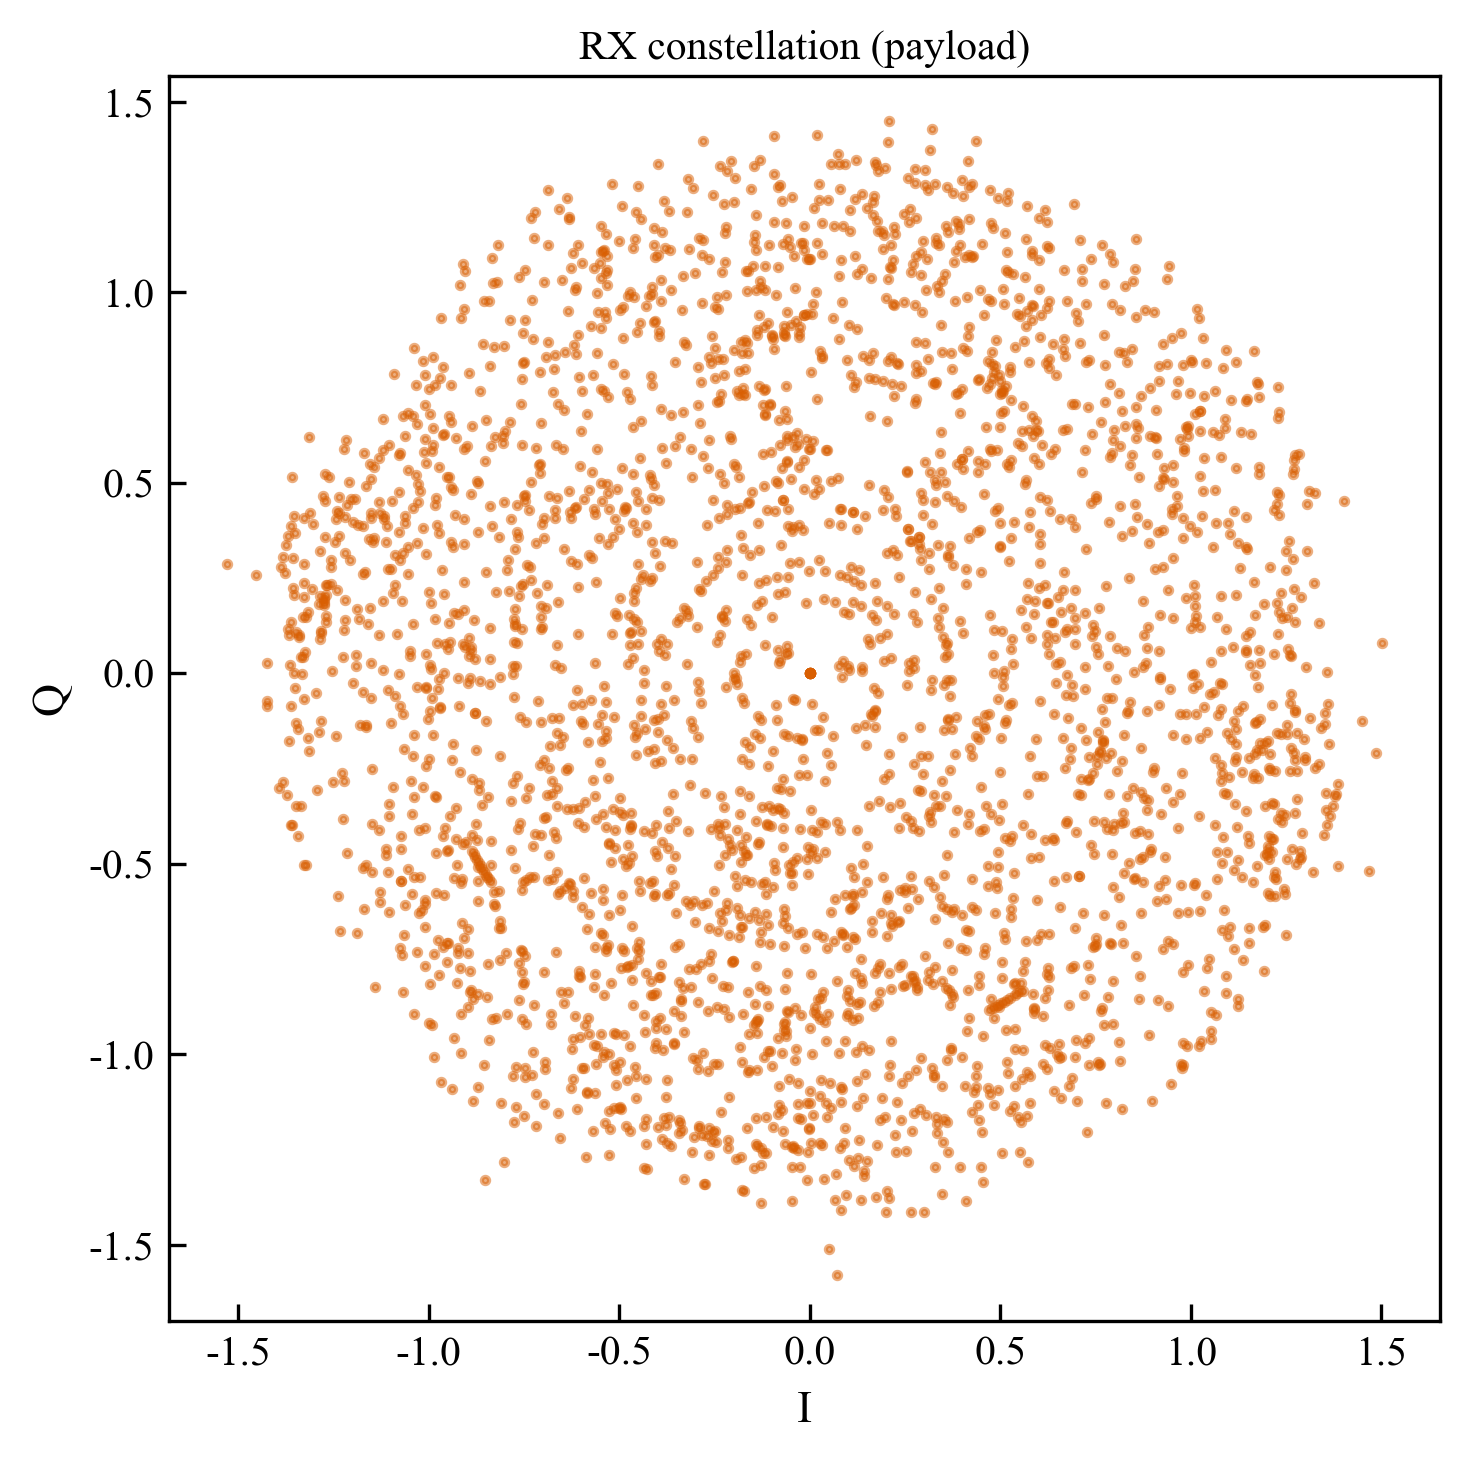
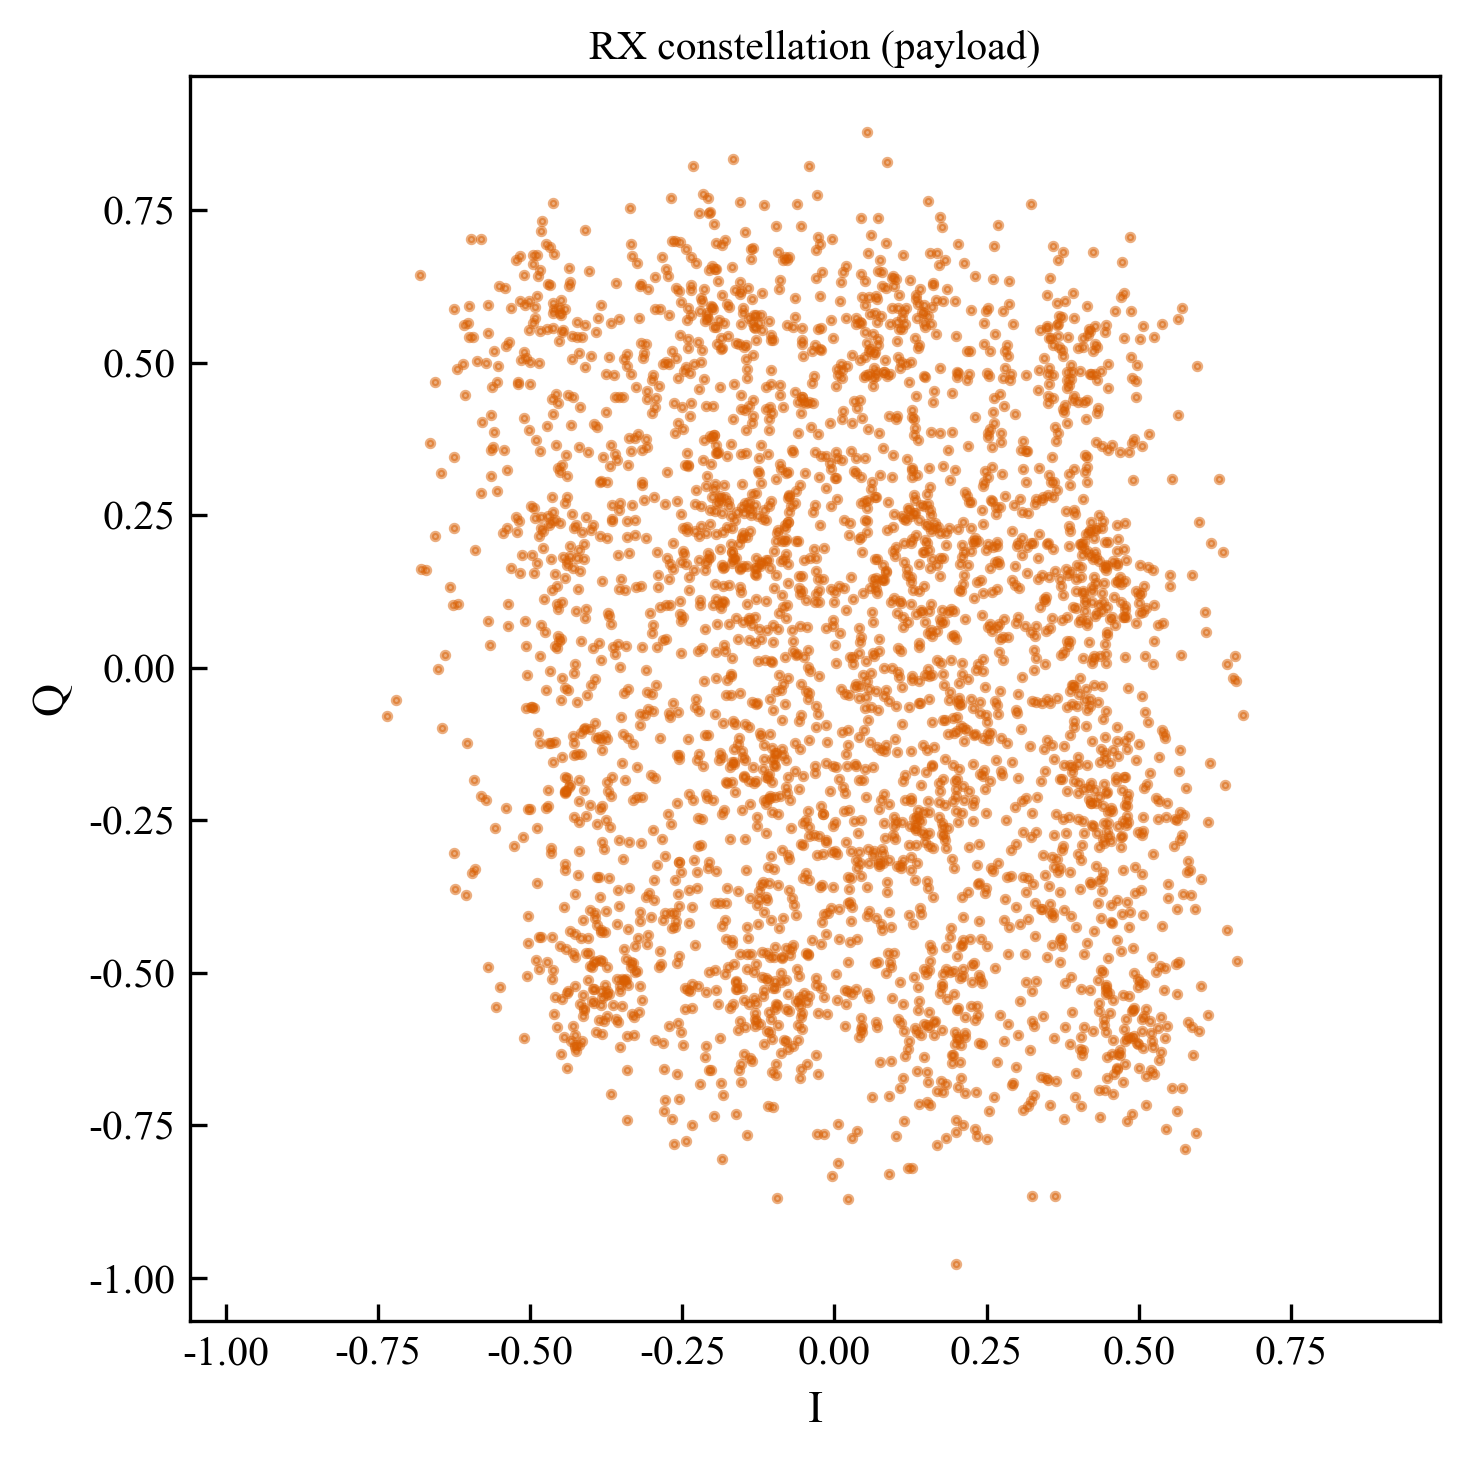
解决IQ补偿的问题和结果对比问题

diff --git a/thz_sim_ui/services/backend.py b/thz_sim_ui/services/backend.py
@@ -18,6 +18,10 @@ from PySide6.QtCore import QObject, Signal, QThread
 from thz_sim_ui.data.mock_data import RECENT_TASKS, TaskItem
 from simulation.SimulationManager import SimulationManager
 from params.PHYParams import PHYParams
+from thz_sim_ui.services.result_utils import (
+    build_simulation_result_path,
+    select_rx_constellation_data,
+)
 
 
 class SimulationThread(QThread):
@@ -816,8 +820,17 @@ class BackendService(QObject):
             sm.set_control_params(mapped_params)
             tags = self._format_task_tags(mapped_params)
             start_time = time.time()
+            task_name = f'THz-Sim-{len(RECENT_TASKS) + 1}'
+            result_path = None
+            if project_folder:
+                result_path = build_simulation_result_path(
+                    project_folder,
+                    task_name,
+                    time.time_ns(),
+                )
+                result_path.mkdir(parents=True, exist_ok=True)
             task = TaskItem(
-                name=f'THz-Sim-{len(RECENT_TASKS) + 1}',
+                name=task_name,
                 project=self._state.project_name,
                 mode='蒙特卡洛',
                 tags=tags,
@@ -828,7 +841,7 @@ class BackendService(QObject):
                 status='运行中',
                 is_current=True,
                 start_time=start_time,
-                result_path=self.current_project_folder,
+                result_path=str(result_path) if result_path else None,
             )
             RECENT_TASKS.append(task)
             self.tasks_updated.emit(RECENT_TASKS.copy())
@@ -1230,7 +1243,9 @@ class BackendService(QObject):
             fig.tight_layout(); fig.savefig(output_dir / "rx_mf_spectrum.png", dpi=300, bbox_inches='tight'); plt.close(fig)
 
         # ---- equalized constellation ----
-        eq_dict = result.get('rx_equalized') or {}
+        # 判决导向 IQ 补偿位于均衡之后。开启补偿时应展示补偿后的
+        # 星座；未开启补偿（值为 None）时再回退到原始均衡结果。
+        eq_dict = select_rx_constellation_data(result)
         eq_sig = np.asarray(eq_dict.get('signal_stream', []))
         if len(eq_sig) > 0:
             fig, ax = plt.subplots(figsize=(5, 5))

diff --git a/simulation/test_iq_constellation_result_flow.py b/simulation/test_iq_constellation_result_flow.py
@@ -1,0 +1,56 @@
+import numpy as np
+
+from simulation.result_utils import collect_receiver_intermediates
+from thz_sim_ui.services.result_utils import (
+    build_simulation_result_path,
+    select_rx_constellation_data,
+)
+
+
+def test_frontend_prefers_iq_compensated_constellation():
+    equalized = {"signal_stream": np.array([1 + 1j])}
+    compensated = {"signal_stream": np.array([2 + 2j])}
+
+    selected = select_rx_constellation_data({
+        "rx_equalized": equalized,
+        "rx_iq_compensated": compensated,
+    })
+
+    assert selected is compensated
+
+
+def test_frontend_falls_back_to_equalized_constellation_without_iq_compensation():
+    equalized = {"signal_stream": np.array([1 + 1j])}
+
+    selected = select_rx_constellation_data({
+        "rx_equalized": equalized,
+        "rx_iq_compensated": None,
+    })
+
+    assert selected is equalized
+
+
+def test_simulation_result_exports_iq_compensated_signal():
+    equalized = {"signal_stream": np.array([1 + 1j])}
+    compensated = {"signal_stream": np.array([2 + 2j])}
+
+    class FakeReceiver:
+        rx_matched = None
+        rx_downsampled = None
+        rx_equalized = equalized
+        rx_iq_compensated = compensated
+
+    result = collect_receiver_intermediates(FakeReceiver())
+
+    assert result["rx_equalized"] is equalized
+    assert result["rx_iq_compensated"] is compensated
+
+
+def test_each_simulation_gets_an_independent_project_result_path(tmp_path):
+    first = build_simulation_result_path(tmp_path, "THz-Sim-1", 1001)
+    second = build_simulation_result_path(tmp_path, "THz-Sim-2", 1002)
+
+    assert first != second
+    assert first.parent == second.parent == tmp_path / "runs"
+    assert first.name == "THz-Sim-1_1001"
+    assert second.name == "THz-Sim-2_1002"

diff --git a/simulation/SimulationManager.py b/simulation/SimulationManager.py
@@ -9,6 +9,7 @@ from params.PHYParams import PHYParams
 from transmitter.THzTransmitter import THzTransmitter
 from channel.THzChannel import THzChannel
 from receiver.THzReceiver import THzReceiver
+from simulation.result_utils import collect_receiver_intermediates
 
 
 class SimulationManager:
@@ -112,9 +113,7 @@ class SimulationManager:
             "tx_signal": tx_signal_dict,
             "rx_signal": rx_signal_dict,
             "rx_data": rx_data,
-            "rx_matched": getattr(receiver, 'rx_matched', None),
-            "rx_downsampled": getattr(receiver, 'rx_downsampled', None),
-            "rx_equalized": getattr(receiver, 'rx_equalized', None),
+            **collect_receiver_intermediates(receiver),
             "noise_var": receiver.noise_var,
             "ber": ber,
             "tx_bit_len": tx_bit_len,

diff --git a/thz_sim_ui/services/result_utils.py b/thz_sim_ui/services/result_utils.py
@@ -1,0 +1,20 @@
+from pathlib import Path
+import re
+
+
+def select_rx_constellation_data(result: dict) -> dict:
+    """选择结果页星座图数据：IQ 补偿结果优先，均衡结果兜底。"""
+    return (result.get("rx_iq_compensated")
+            or result.get("rx_equalized")
+            or {})
+
+
+def build_simulation_result_path(
+    project_folder: str | Path,
+    task_name: str,
+    run_id: int,
+) -> Path:
+    """为一次单方案仿真生成工程内独立且稳定的结果目录。"""
+    safe_task_name = re.sub(r"[^0-9A-Za-z._-]+", "_", task_name).strip("._")
+    safe_task_name = safe_task_name or "simulation"
+    return Path(project_folder) / "runs" / f"{safe_task_name}_{int(run_id)}"

diff --git a/simulation/result_utils.py b/simulation/result_utils.py
@@ -1,0 +1,8 @@
+def collect_receiver_intermediates(receiver) -> dict:
+    """收集前端绘图所需的接收机中间结果。"""
+    return {
+        "rx_matched": getattr(receiver, "rx_matched", None),
+        "rx_downsampled": getattr(receiver, "rx_downsampled", None),
+        "rx_equalized": getattr(receiver, "rx_equalized", None),
+        "rx_iq_compensated": getattr(receiver, "rx_iq_compensated", None),
+    }
